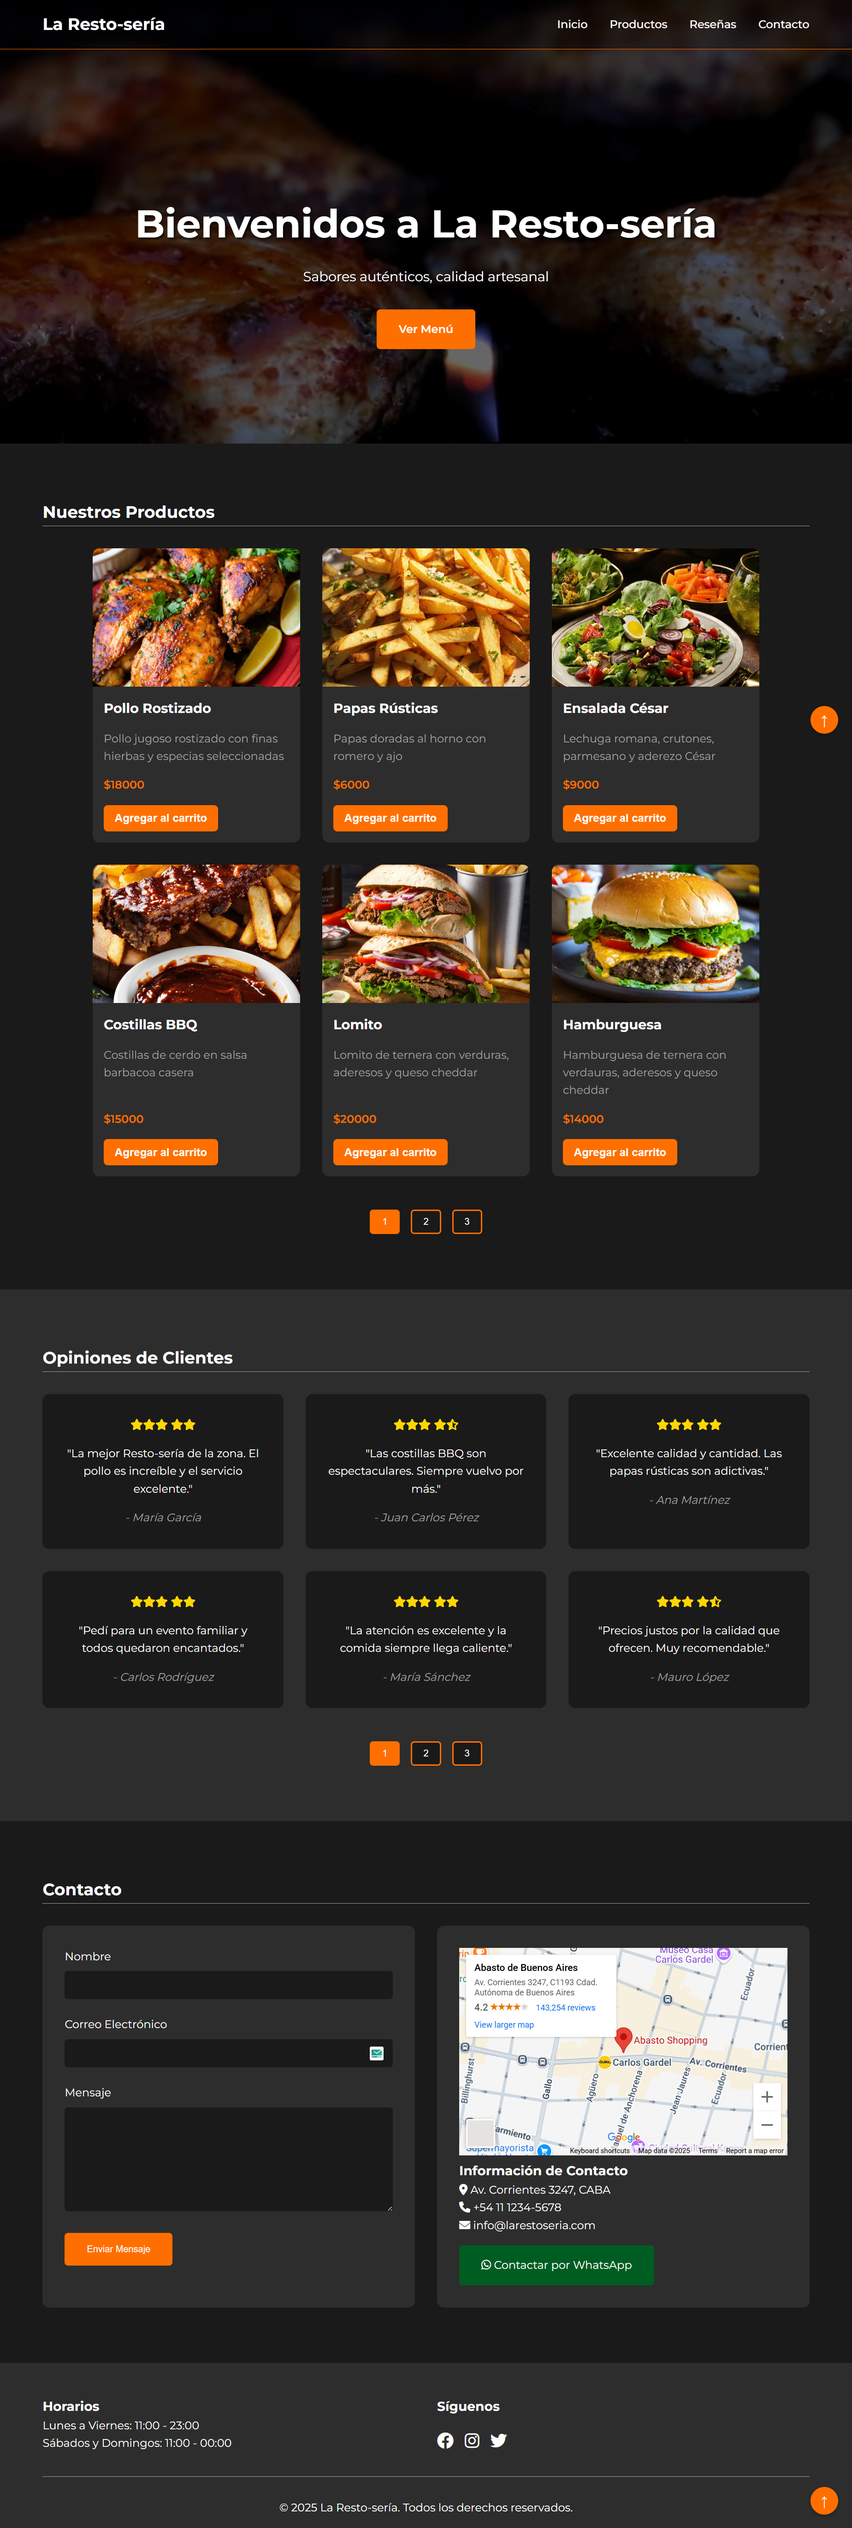
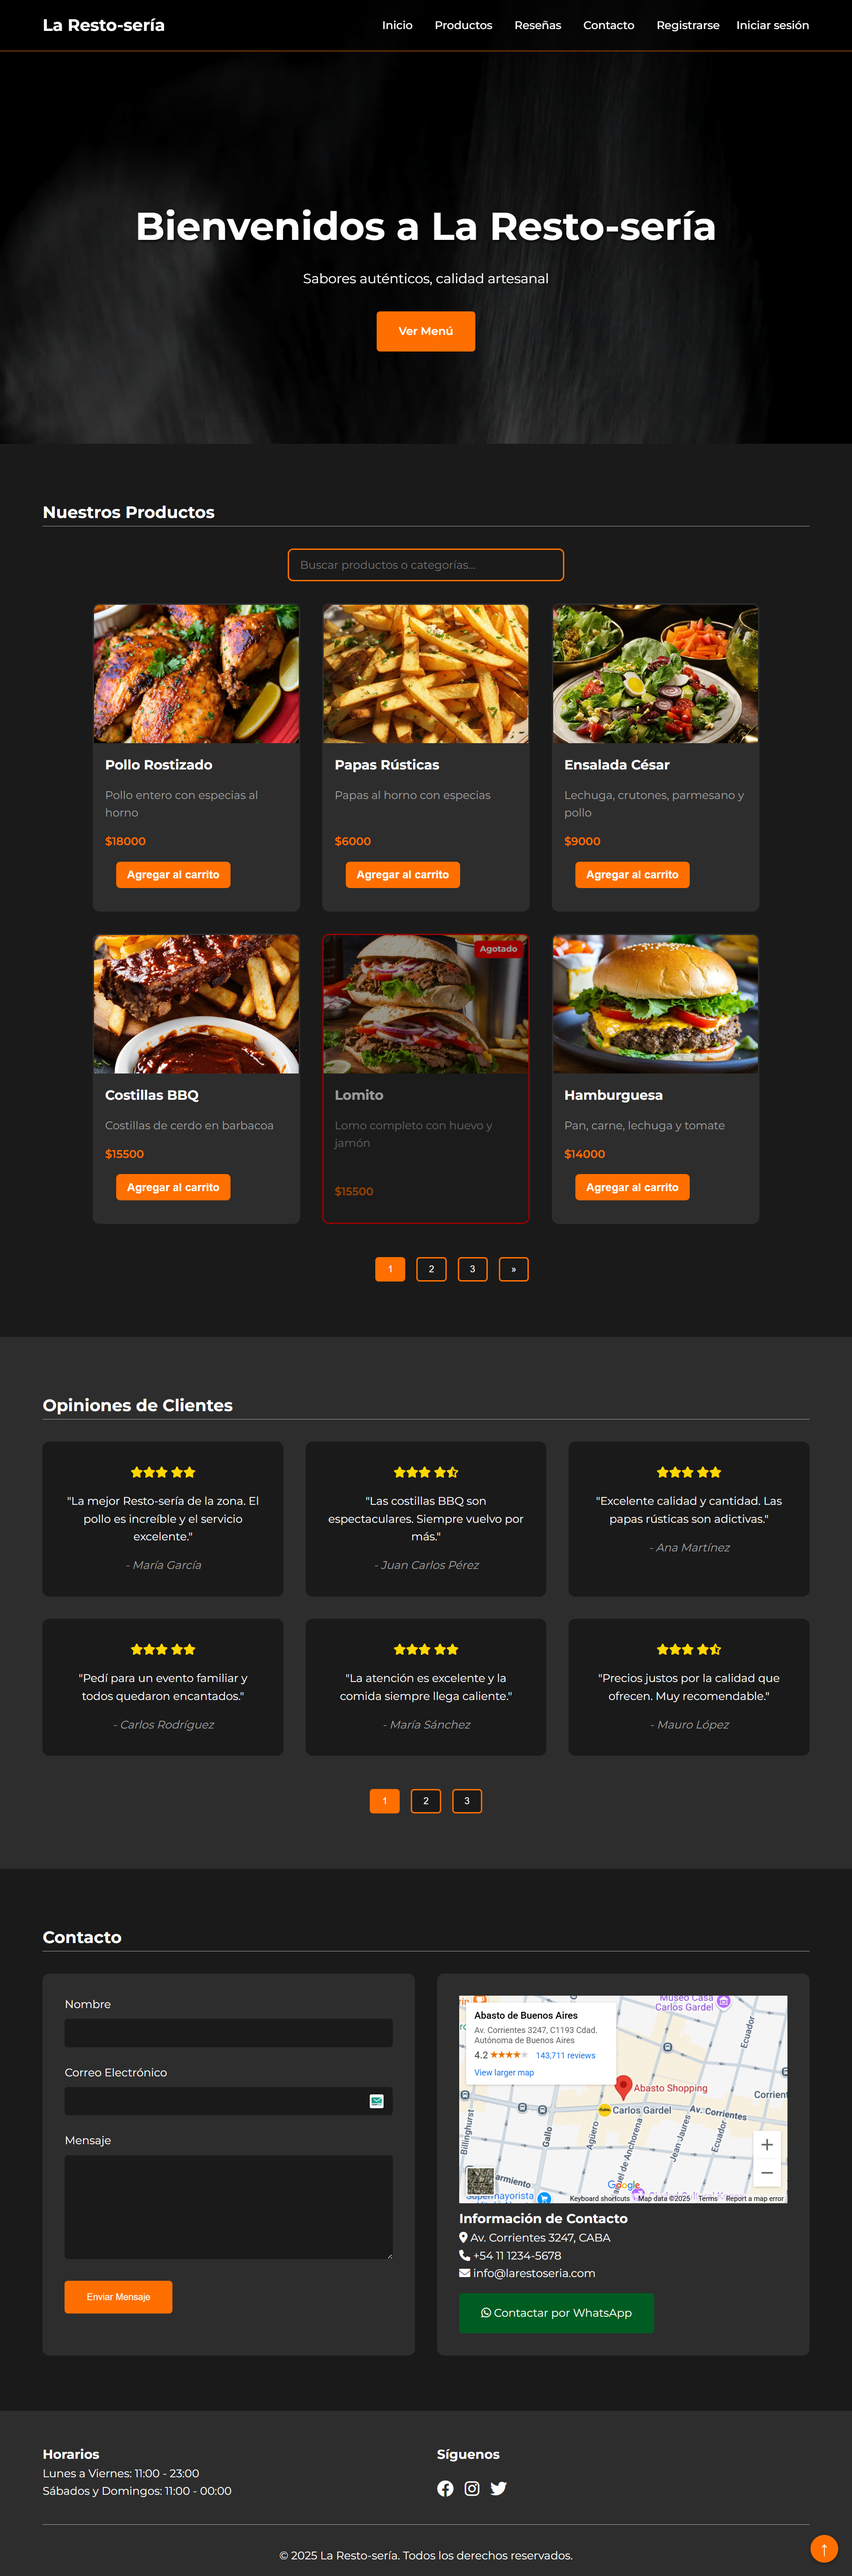
v1

diff --git a/README.md b/README.md
@@ -1,45 +1,64 @@
 # 🍽 Restaurante Web - Entrega final v1 ICP
 
-# 🎯 Objetivo del Proyecto Final – E-commerce Interactivo
+# 🎯 Proyecto Final – E-commerce Interactivo
+
 ## 📝 Descripción del Proyecto
-Este proyecto es una pre-entrega Frond-End_JS para el curso de Full Stack con Node.js TT. Tiene como objetivo desarrollar una página web completa de comercio electrónico (eCommerce) que integre todos los conocimientos adquiridos durante el curso, incluyendo HTML semántico, CSS moderno, JavaScript, consumo de API REST, almacenamiento local y buenas prácticas de accesibilidad y SEO.
+Este proyecto es una entrega final parcial Frond-End_JS para el curso de Full Stack con Node.js TT. Tiene como objetivo desarrollar una página web completa de comercio electrónico (eCommerce) que integre todos los conocimientos adquiridos durante el curso, incluyendo HTML semántico, CSS moderno, JavaScript, consumo de API REST, almacenamiento local, manejo de carrito de compras, sistema de pedido y buenas prácticas de accesibilidad y SEO.
 
-Además de cumplir con todos los requerimientos, se añadieron funcionalidades extra que simulan un entorno más realista, incluyendo una API propia, generación de comprobantes de compra y un panel administrativo (dashboard) que simula un 'backend' (No real) para cargar y gestionar productos.
-
-
-
+Este proyecto consiste en el desarrollo de un sitio web de comercio electrónico funcional, combinando conocimientos de frontend, integración de APIs, manejo de carrito, sistema de pedidos, login de administrador y un panel de control simulado.
+Además de cumplir con todos los requerimientos, se añadieron funcionalidades extra que simulan un entorno más realista, incluyendo una API propia, generación de comprobantes de compra y un panel administrativo (dashboard) que simula un 'backend' (No real) para cargar y gestionar productos, ademas de un login administrador/cliente.
 
 
-## 🚀 Características Actuales
-- Diseño completamente responsive
-- Sección de productos con catálogo de platillos
-- Formulario de contacto funcional
-- Mapa de ubicación integrado
-- Navegación intuitiva
 
-## 🔮 Próximas Implementaciones
-- Carrito de compras con JavaScript
-- Animaciones interactivas
-- Sistema de reservas
-- Panel de administración
 
-## 🛠 Tecnologías Utilizadas
-- HTML5
-- CSS3
-- Formspree (para el formulario de contacto)
-- Google Maps Embed API
+#### 1. OBJETIVOS INICIALES
 
-## 📸 Capturas de Pantalla
+- Crear un e-commerce.
+- Utilizar HTML semántico, CSS moderno y JS nativo.
+- Consumir una API externa pública.
+- Implementar carrito de compras con localStorage.
+- Validar formularios y aplicar buenas prácticas de accesibilidad y SEO.
+- Hacer deploy del proyecto en GitHub Pages o Netlify.
+
+#### 2. MEJORAS Y FUNCIONALIDADES ADICIONALES
+
+- Se integró una API pública (FakeStore) + una API propia con productos reales (usando productos.json desde GitHub Pages).
+- Se desarrolló un sistema de paginación que permite cargar más productos desde las API, manteniendo los 6 primeros productos hardcodeados como fallback por si no tenemos conexión a internet.
+- Un buscador en tiempo real que permite buscar productos por nombre, descripción, etc.
+- Se implementó un carrito de compras funcional que persiste en localStorage, permite editar cantidad de productos, medios de pagos, con control de stock, botones desactivados para productos agotados y cálculo del total, confirmación de compra y datos extras para mas realismo.
+- Se agregó sistema de pedidos con generación de comprobante (formato ticket o factura ).
+- Se creó un login básico para el cliente y usuario administrador, lo cual habilita el acceso a un Dashboard.
+- El Dashboard permite agregar, editar o eliminar productos de la API propia y local y gestión de pedidos, simulando una administración real, con autocompletado de imágenes desde carpeta y/o api json.
+- El nav se adapta según el tipo de usuario (cliente o administrador).
+- Se aplicó diseño responsivo para celulares, tablets y escritorio.
+- Se incluyeron mejoras visuales y usabilidad (Menú hamburguesa, alertas, validaciones, botón de WhatsApp, etc).
+
+---
+
+## 3. 🛠 Tecnologías Utilizadas
+
+- **HTML5** (estructura semántica)
+- **CSS3** (con Flexbox, Grid, media queries, css variables, etc)
+- **JavaScript ES6+** (modularizado)
+- **Formspree** (formulario de contacto)
+- **Google Maps Embed** (Dirección del local físiico)
+- **GitHub Pages** (para alojamiento del codigo y la API pública personalizada)
+- **API Publica Fakestore** (para la API pública tienda falsa)
+- **Netlify** (para desplegar el proyecto)
+
+---
+
+## 4. 📸 Capturas de Pantalla
 
 ### Página Principal
 ![Página Principal](caps/Pag-Completa.png)  
 <!--URL:  
-![Página Principal](https://github.com/D3M4rc0/proyecto-final-Ecommerce-MarcoCor/raw/main/caps/Pag-Completa.png)-->
+![Página Principal](https://github.com/D3M4rc0/proyecto-final-Ecommerce-Completo-MarcoCor/blob/main/caps/Pag-Completa.pngg)-->
 
 ### Sección de Productos Desktop y Móvil, responsive design 
 ![Sección de Productos](caps/Responsivo-1.png)  
 <!--URL:  
-![Sección de Productos](https://github.com/D3M4rc0/proyecto-final-Ecommerce-MarcoCor/raw/main/caps/Responsivo-1.png)-->
+![Sección de Productos](https://github.com/D3M4rc0/proyecto-final-Ecommerce-Completo-MarcoCor/blob/main/caps/Responsivo-1.png)-->
 
 ### Formulario de Contacto
 ![Alerta Mensaje Enviado](caps/Alerta-Mensaje-enviado.png)  
@@ -48,18 +67,25 @@ Además de cumplir con todos los requerimientos, se añadieron funcionalidades e
 ![Confirmación Formspree](caps/Confirmacion-Formspree.png)  
 
 <!--URL:  
-![Alerta Mensaje Enviado](https://github.com/D3M4rc0/proyecto-final-Ecommerce-MarcoCor/raw/main/caps/Alerta-Mensaje-enviado.png)  
-![Confirmación Formspree](https://github.com/D3M4rc0/proyecto-final-Ecommerce-MarcoCor/raw/main/caps/Confirmacion-Formspree.png)-->
+![Alerta Mensaje Enviado](https://github.com/D3M4rc0/proyecto-final-Ecommerce-Completo-MarcoCor/blob/main/caps/Alerta-Mensaje-enviado.png)  
+![Confirmación Formspree](https://github.com/D3M4rc0/proyecto-final-Ecommerce-Completo-MarcoCor/blob/main/caps/Confirmacion-Formspree.png)-->
 
+### 5. USO Y FUNCIONAMIENTO
 
-## 🎯 Objetivos del Proyecto
-1. Demostrar habilidades en maquetación HTML y CSS
-2. Crear una interfaz de usuario intuitiva y atractiva
-3. Implementar diseño responsive para todos los dispositivos
-4. Sentar las bases para futuras funcionalidades con JavaScript
+- El sitio muestra productos iniciales hardcodeados, y luego mediante paginación carga los de las APIs pública y personalizada.
+- Los productos se pueden agregar al carrito (con opción de modificar las cantidades, ingresar nombre, pago y comentario).
+- Al comprar se genera un comprobante con código único (ej: PED-XXXXXXXXX) y opción de imprimir.
+- Si hay conexión, se consumen productos desde JSON público. Si no hay conexión, se muestran los 6 productos locales.
+- Solo el admin puede acceder al dashboard y modificar los productos.
+- Se usa localStorage para persistir el carrito, los pedidos y la sesión del usuario.
 
-## 💻 Instalación y Uso
+### 6. 🌐 DEPLOY
+
+🌐 Netlify - LaRestoseria2: 
+   (**https://larestoseria2.netlify.app/**)
+
+## 7. 💻 Instalación y Uso
 1. Clona este repositorio
 ```bash
-git clone https://github.com/D3M4rc0/proyecto-final-Ecommerce-MarcoCor.git # proyecto-final-Ecommerce-MarcoCor
+git clone https://github.com/D3M4rc0/proyecto-final-Ecommerce-Completo-MarcoCor.git 
 ```
